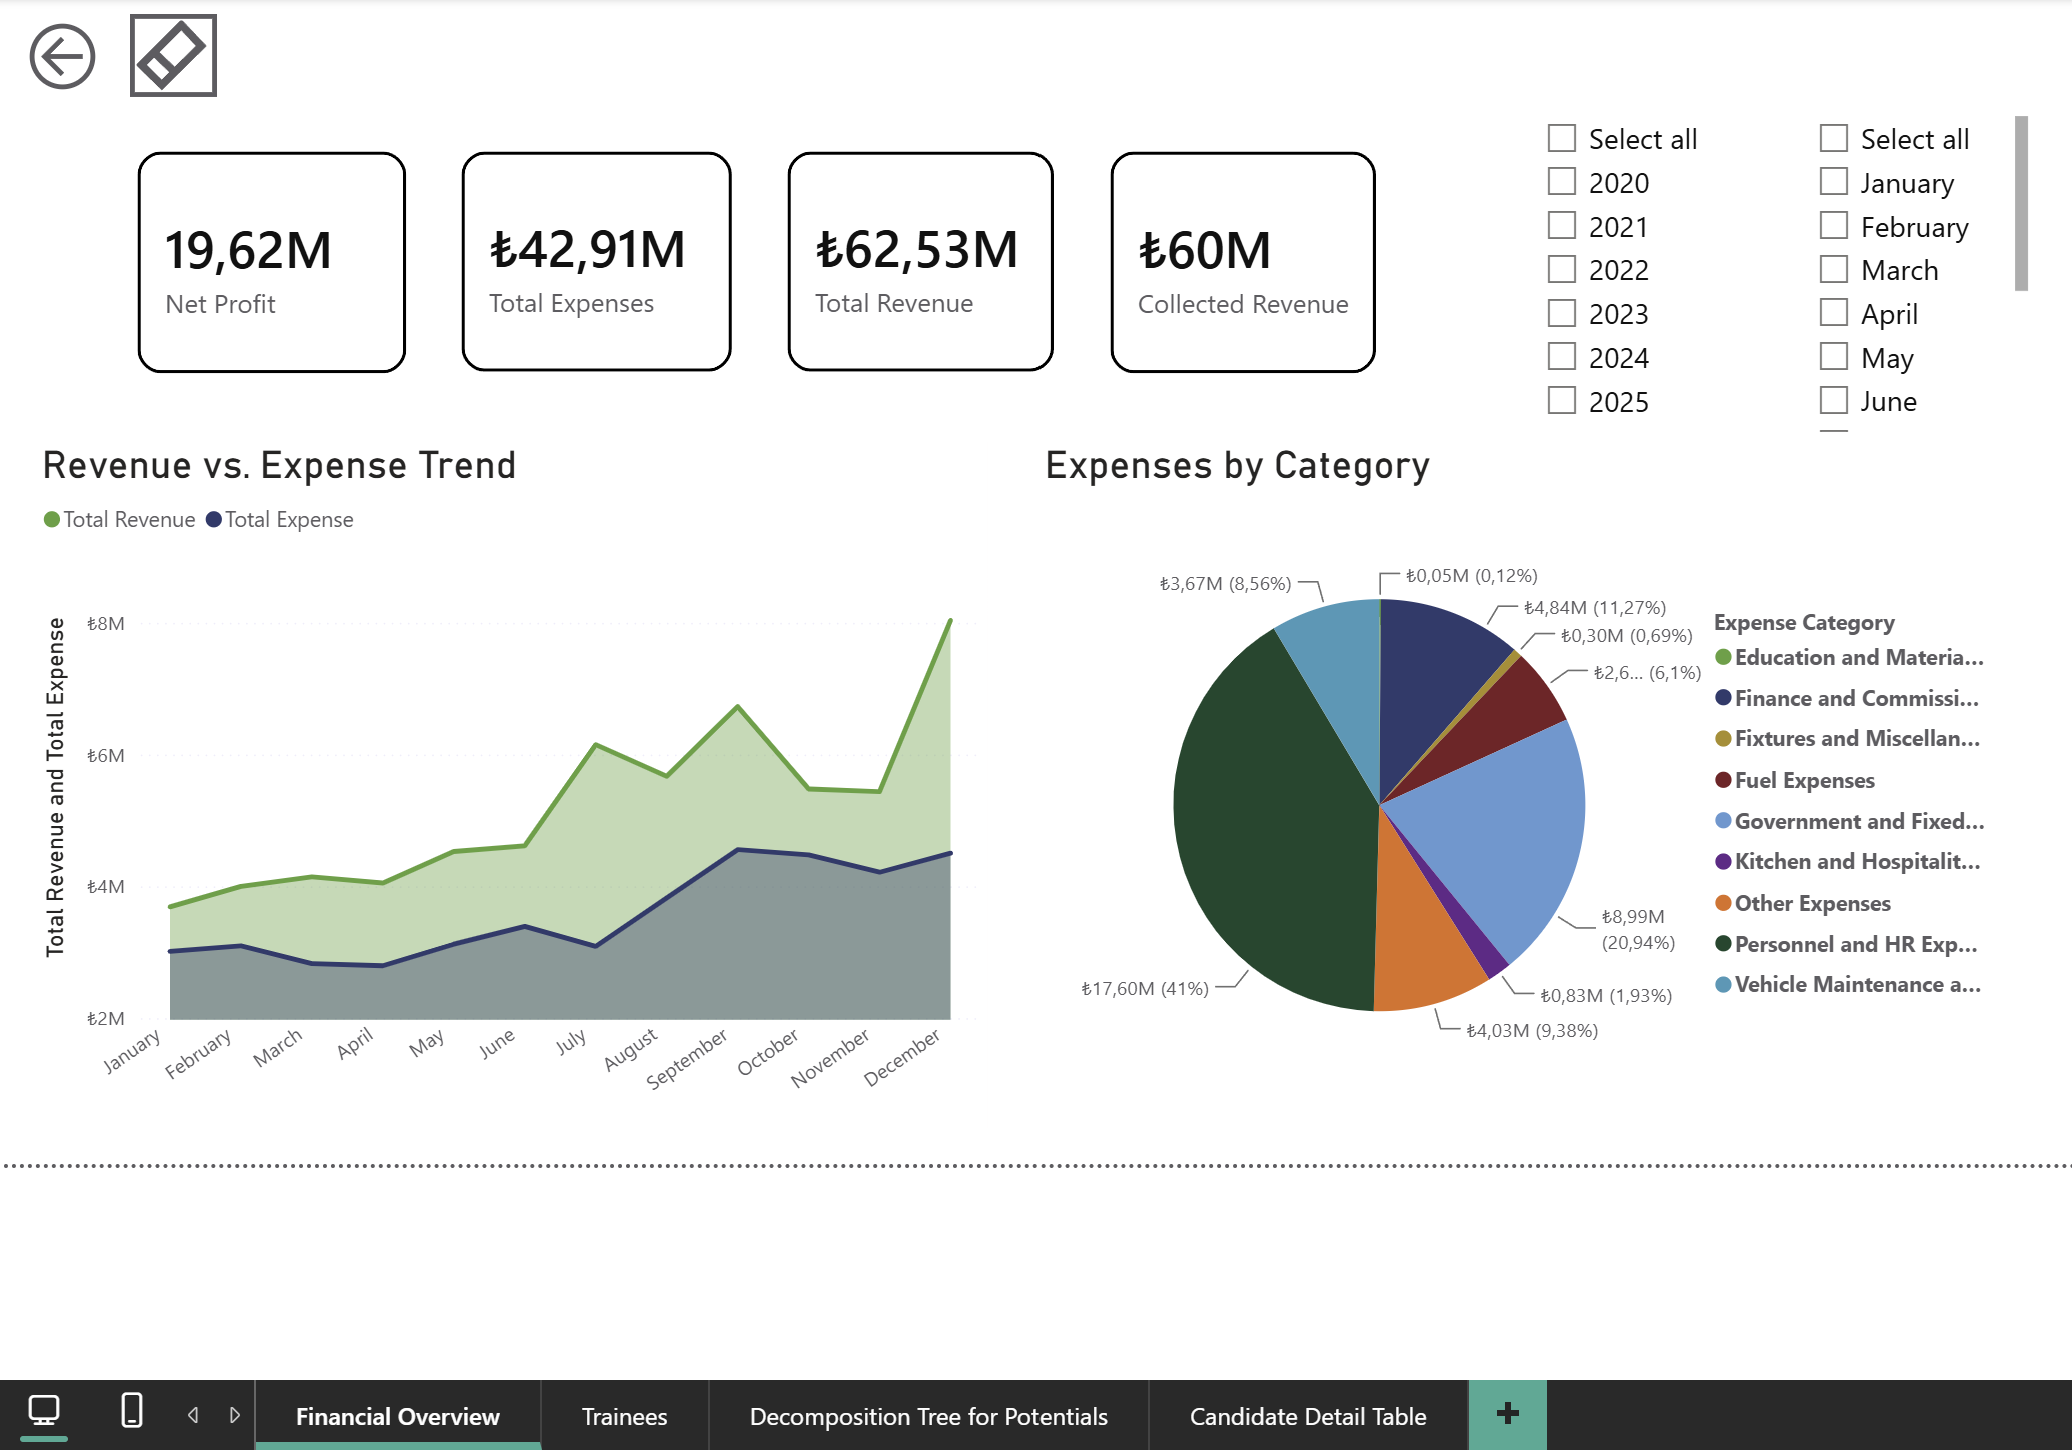
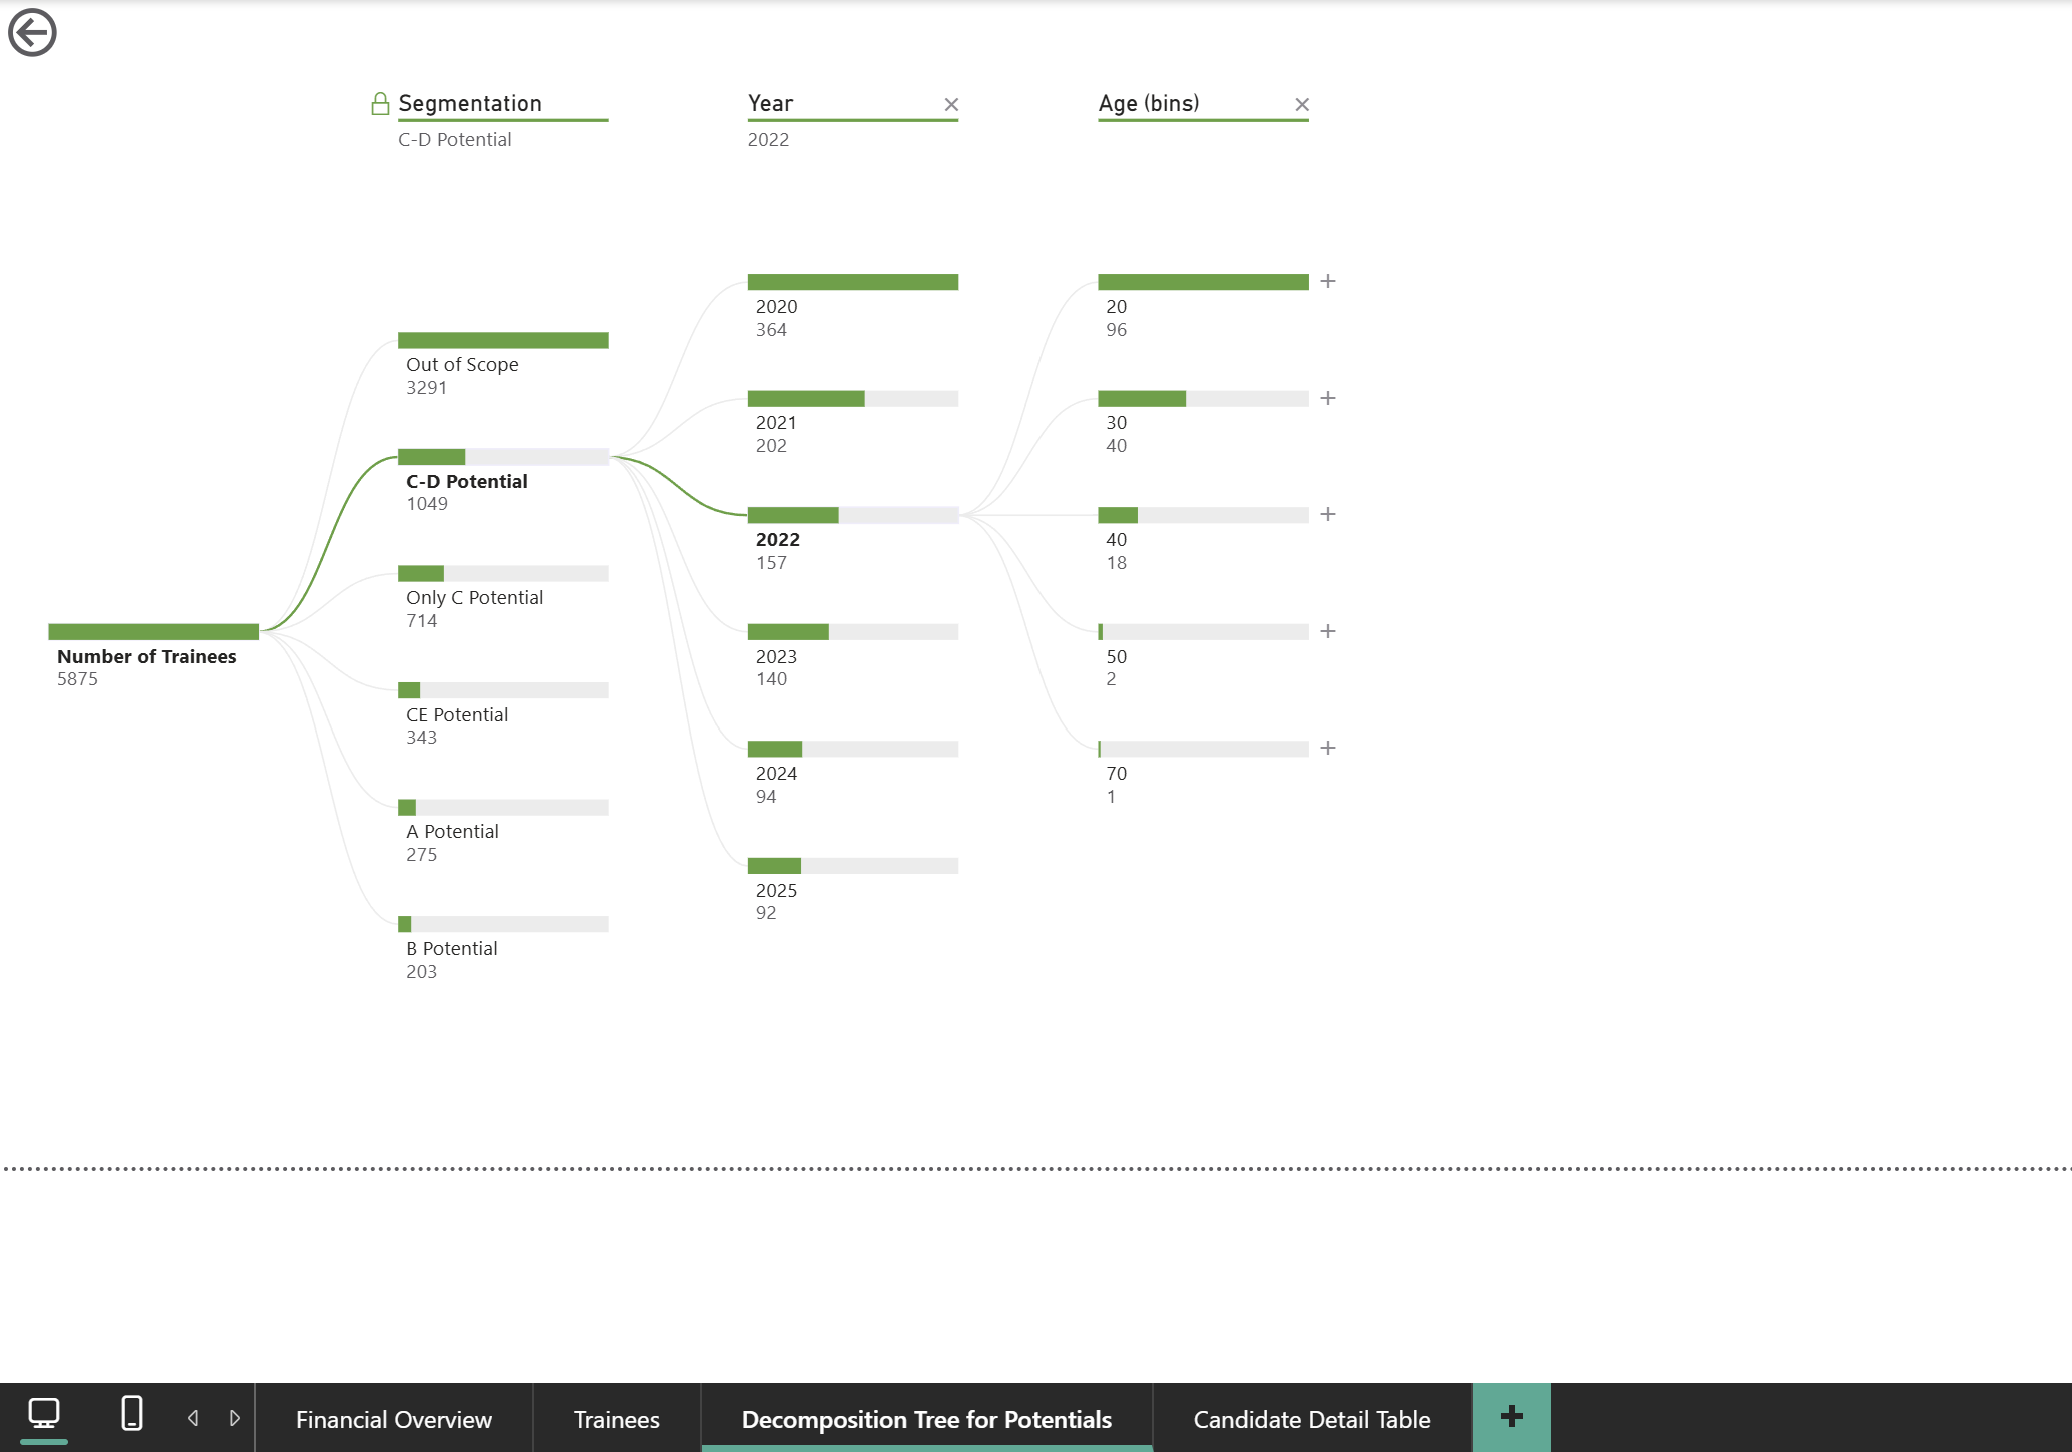
docs: use the selected dashboard cover

diff --git a/README.md b/README.md
@@ -2,7 +2,7 @@
 
 ![Dashboard](assets/dashboard.png)
 
-*Financial Overview — monetary values are scaled. [View all dashboard pages](docs/dashboard.md).*
+*Decomposition Tree for Potentials — segment → year → age band. [View all dashboard pages](docs/dashboard.md).*
 
 [Run the public demo](#run-the-public-demo) — synthetic sample data, no private files or API key required.
 
